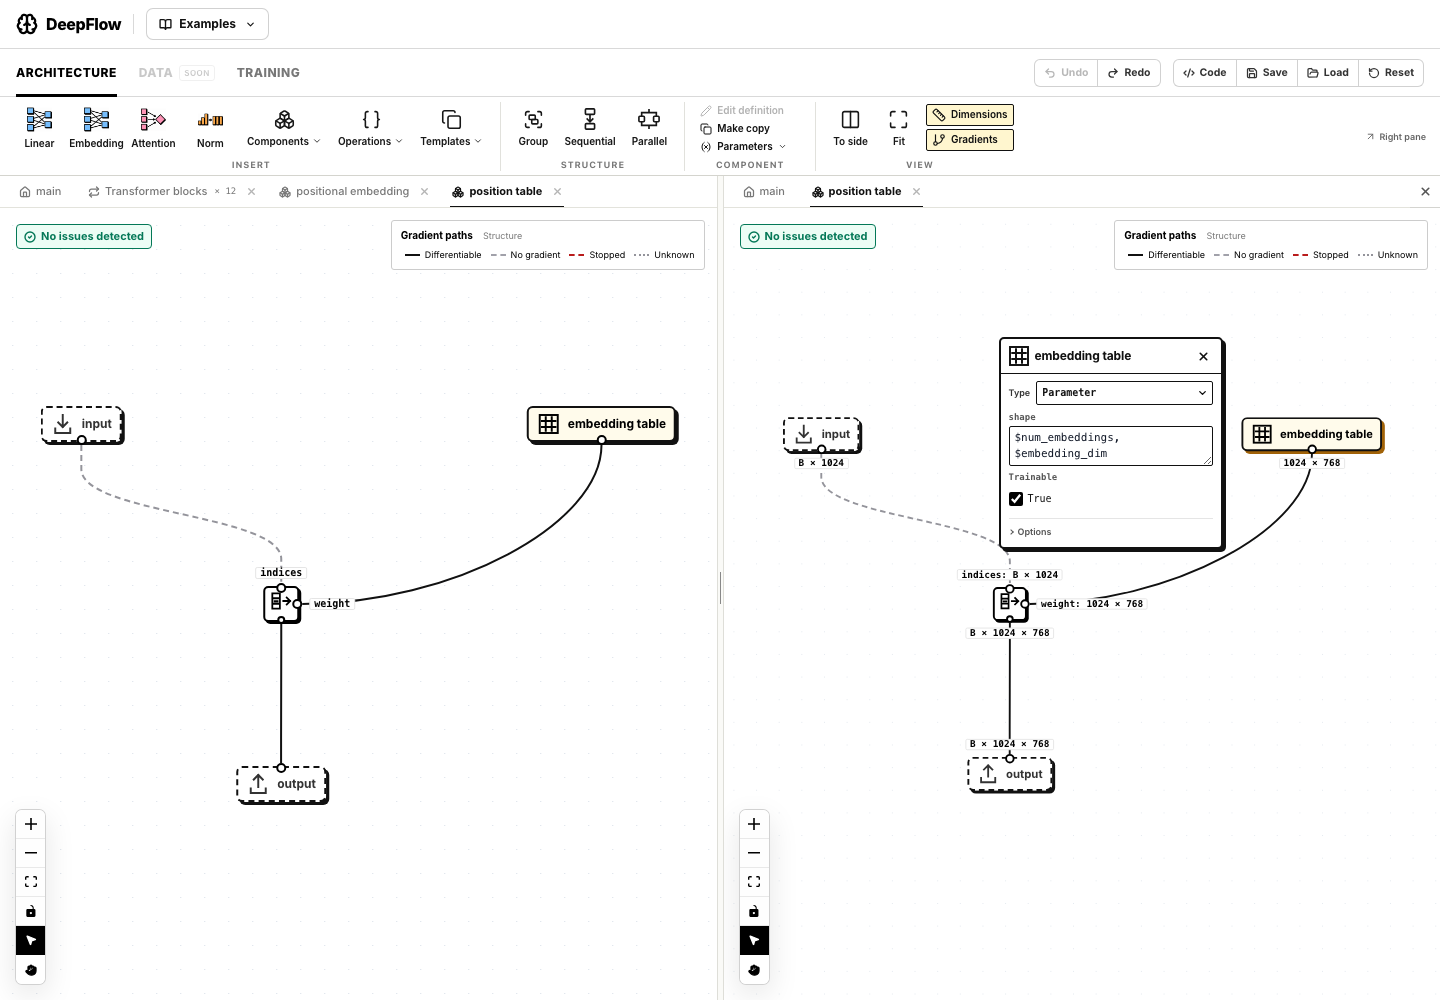
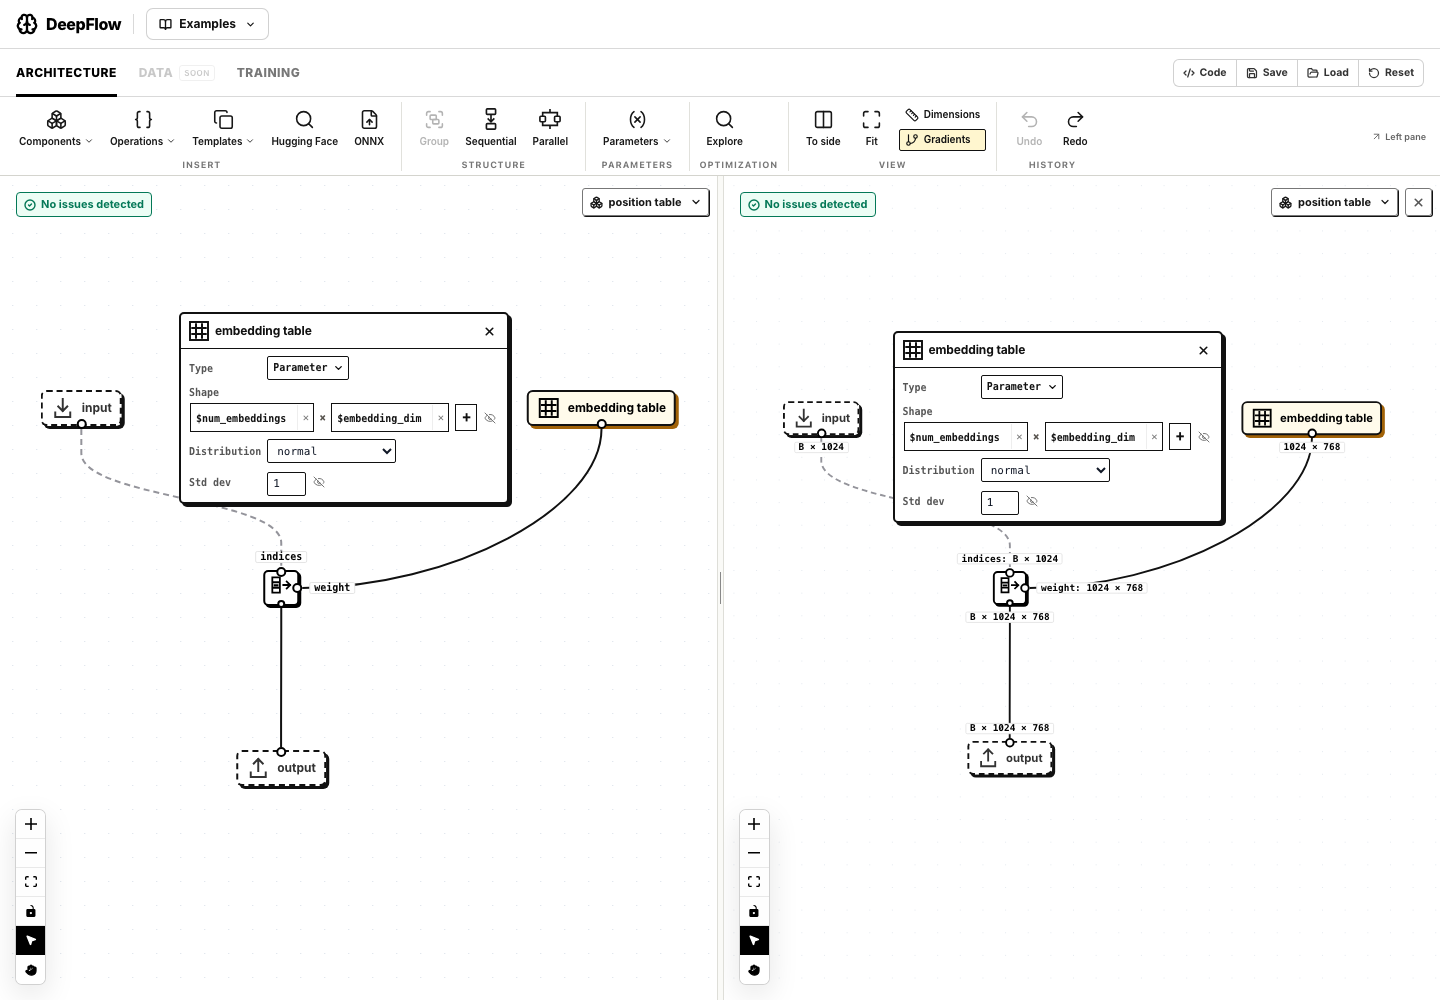
Keep inspectors clear of level controls and refresh browser checks

diff --git a/src/components/architecture/useInspectorPlacement.js b/src/components/architecture/useInspectorPlacement.js
@@ -35,7 +35,8 @@ function attachPlacement(panel, canvas, flowStore, anchorFor) {
         panel.style.maxHeight = `${Math.min(460, Math.max(120, origin.height - 24))}px`;
         const target = anchorFor(origin, [...canvas.querySelectorAll('.react-flow__node')]);
         if (!target) return;
-        const obstacles = [...canvas.querySelectorAll('.df-library, .react-flow__controls, [aria-label^="Graph checks:"], .df-inspector')]
+        const paneControls = canvas.closest('.df-architecture-body')?.querySelectorAll('.df-level-trigger, .df-side-close') ?? [];
+        const obstacles = [...canvas.querySelectorAll('.df-library, .react-flow__controls, [aria-label^="Graph checks:"], .df-inspector'), ...paneControls]
             .filter((element) => element !== panel)
             .map((element) => relativeRect(element, origin));
         const placement = placeInspector({
@@ -62,6 +63,7 @@ function attachPlacement(panel, canvas, flowStore, anchorFor) {
     resizeObserver.observe(panel);
     const palette = canvas.querySelector('.df-library');
     if (palette) resizeObserver.observe(palette);
+    for (const control of canvas.closest('.df-architecture-body')?.querySelectorAll('.df-level-trigger, .df-side-close') ?? []) resizeObserver.observe(control);
     // Palette collapse and parameter disclosures change available space.
     const mutationObserver = new window.MutationObserver(schedule);
     mutationObserver.observe(canvas, { childList: true, subtree: true });
